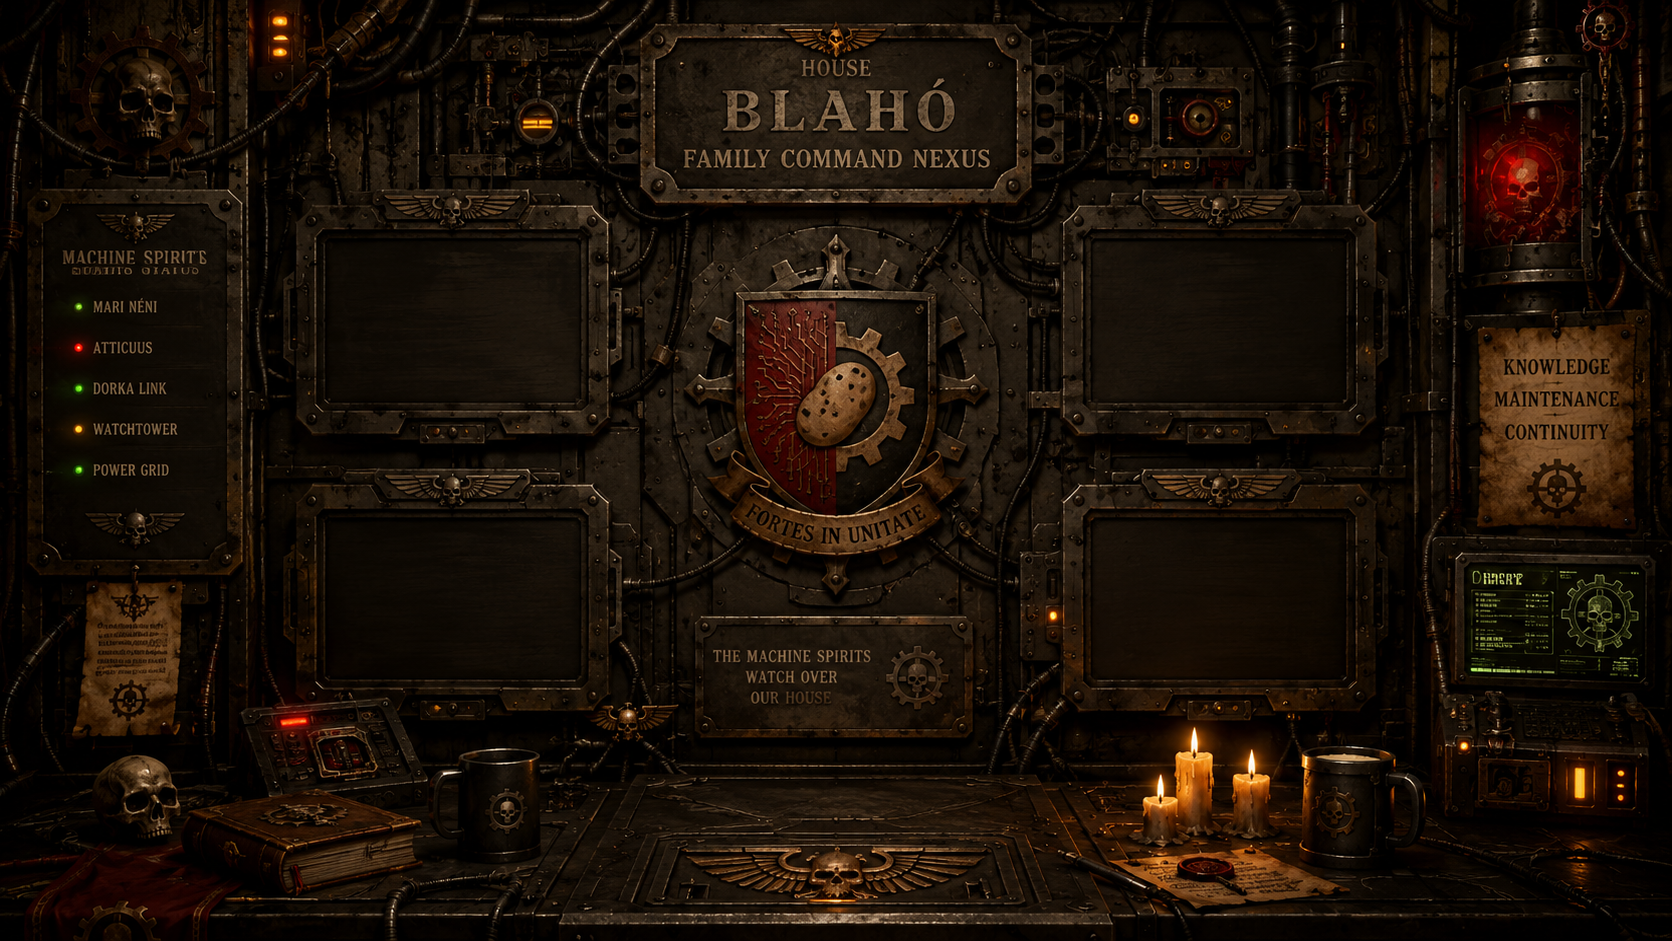
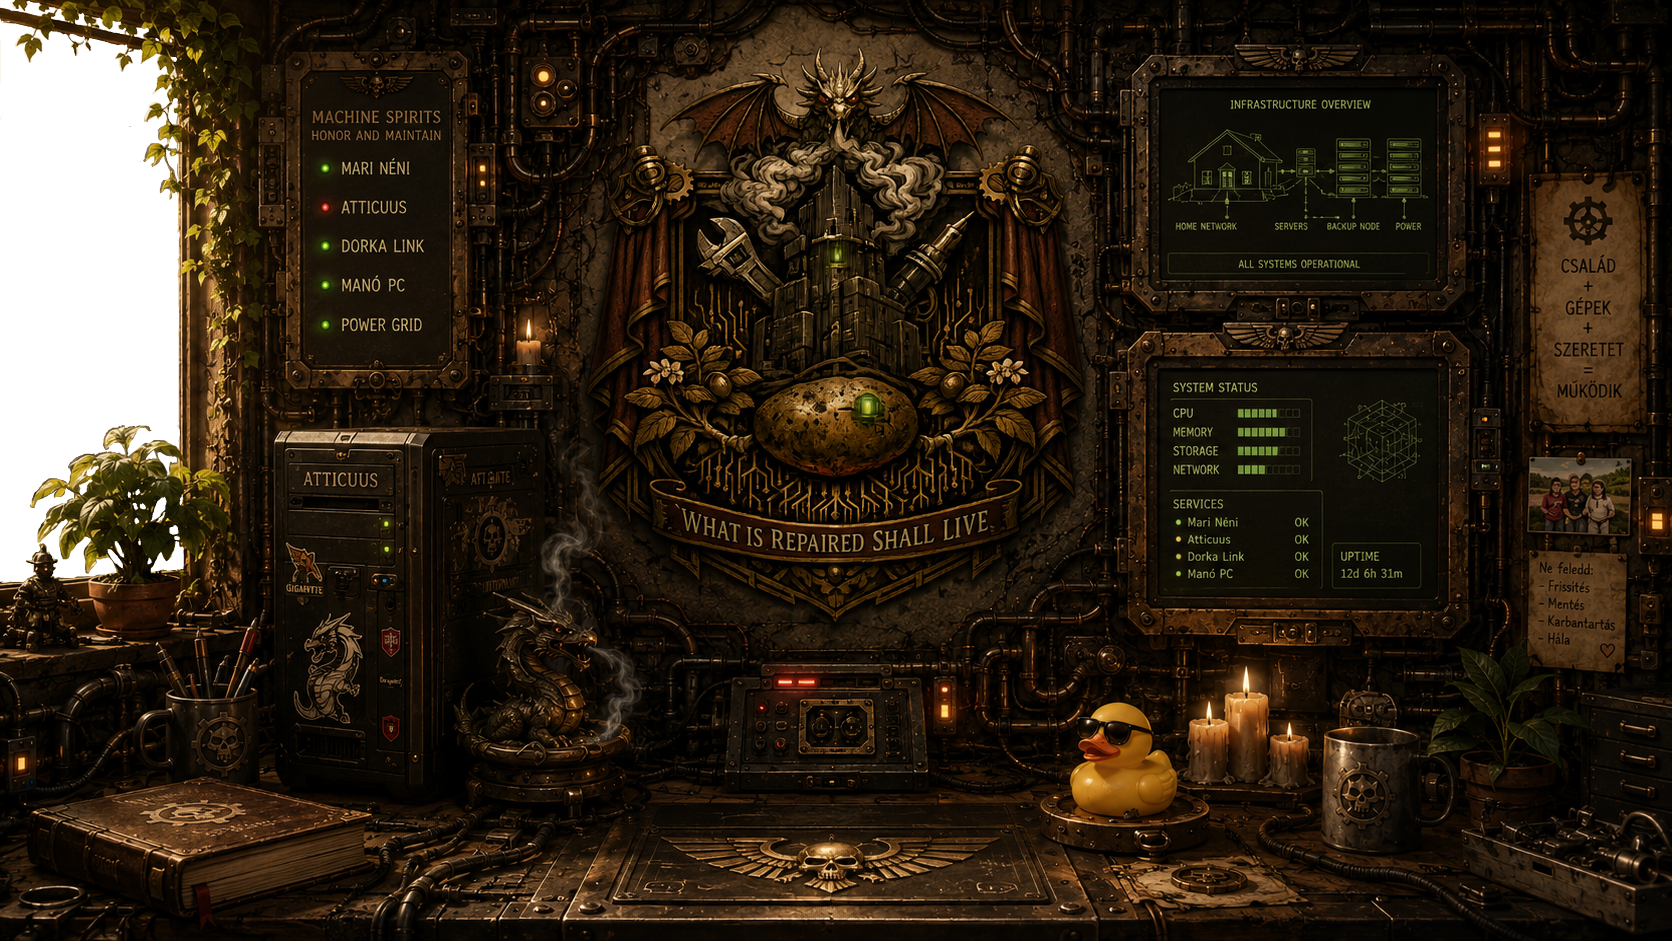
landing page window weather effect

diff --git a/src/pages/Welcome.jsx b/src/pages/Welcome.jsx
@@ -1,53 +1,177 @@
 import { useNavigate } from "react-router-dom";
-import welcome from "../resources/pic/Landing2.png";
+import welcome from "../resources/pic/Landing.png";
+import springVillage from "../resources/pic/village/SpringVillage.png";
+import summerVillage from "../resources/pic/village/SummerVillage.png";
+import fallVillage from "../resources/pic/village/FallVillage.png";
+import winterVillage from "../resources/pic/village/WinterVillage.png";
+import clear from "../resources/pic/sky/Clear.png";
+import partClear from "../resources/pic/sky/PartClear.png";
+import partCloud from "../resources/pic/sky/PartCloud.png";
+import fullCloud from "../resources/pic/sky/FullCloud.png";
+import Rain from "../components/Rain";
+import Snow from "../components/Snow";
+import { useEffect, useState } from "react";
 
 function Welcome() {
   const navigate = useNavigate();
+  const [weather, setWeather] = useState(null);
+
+  const month = new Date().getMonth();
+  let village;
+
+  function getSky(cloudCover) {
+    if (cloudCover < 20) {
+      return clear;
+    } else if (cloudCover < 45) {
+      return partClear;
+    } else if (cloudCover < 75) {
+      return partCloud;
+    }
+    return fullCloud;
+  }
+
+  function getWeatherEffect(code) {
+    if ((code >= 51 && code <= 67) || (code >= 80 && code <= 82)) {
+      return "rain";
+    } else if ((code >= 71 && code <= 77) || code === 85 || code === 86) {
+      return "snow";
+    } else if (code >= 95 && code <= 99) {
+      return "storm";
+    }
+    return null;
+  }
+
+  if (month >= 2 && month <= 4) {
+    village = springVillage;
+  } else if (month >= 5 && month <= 7) {
+    village = summerVillage;
+  } else if (month >= 8 && month <= 10) {
+    village = fallVillage;
+  } else {
+    village = winterVillage;
+  }
+
+  const sky = weather ? getSky(weather.cloud_cover) : clear;
+
+  const effect = weather ? getWeatherEffect(weather.weather_code) : null;
+
+  useEffect(() => {
+    const getWeather = async () => {
+      try {
+        const response = await fetch(
+          "https://api.open-meteo.com/v1/forecast" +
+            "?latitude=47.64" +
+            "&longitude=20.19" +
+            "&current=temperature_2m,relative_humidity_2m,weather_code,cloud_cover,wind_speed_10m,is_day" +
+            "&timezone=Europe%2FBudapest",
+        );
+
+        if (!response.ok) {
+          throw new Error(`Weather request failed: ${response.status}`);
+        }
+
+        const data = await response.json();
+
+        setWeather(data.current);
+        console.log("Weather:", data.current);
+      } catch (error) {
+        console.error("Could not get weather:", error);
+      }
+    };
+
+    getWeather();
+
+    const interval = setInterval(getWeather, 15 * 60 * 1000);
+
+    return () => clearInterval(interval);
+  }, []);
 
   return (
     <div
       className="fullscreen"
       style={{
-        backgroundImage: `url(${welcome})`,
-        backgroundSize: "cover",
-        backgroundPosition: "center",
-        backgroundRepeat: "no-repeat",
+        position: "relative",
+        overflow: "hidden",
       }}
     >
-      <h1 className="title">BLAHO</h1>
+      <div
+        style={{
+          position: "absolute",
+          inset: 0,
+          backgroundImage: `url(${sky})`,
+          backgroundSize: "auto",
+          backgroundPosition: "top left",
+          backgroundRepeat: "no-repeat",
+          transform: "scale(0.9)",
+          transformOrigin: "top left",
+          zIndex: 0,
+        }}
+      />
 
-      <div className="menu-buttons">
-        <button
-          className="btn btn-start"
-          //style={{ position: "absolute", top: "20px", left: "-156%" }}
-          onClick={() => navigate("/breakfast")}
-        >
-          Reggeli Rulett
-        </button>
+      <div
+        style={{
+          position: "absolute",
+          inset: 0,
+          backgroundImage: `url(${village})`,
+          backgroundSize: "auto",
+          backgroundPosition: "top left",
+          backgroundRepeat: "no-repeat",
+          transform: "scale(0.7)",
+          transformOrigin: "top left",
+          zIndex: 1,
+        }}
+      />
 
-        <button
-          className="btn btn-start"
-          //style={{ position: "absolute", top: "20px", left: "150%" }}
-          onClick={() => navigate("/status")}
-        >
-          STATUS
-        </button>
+      {effect === "rain" && <Rain />}
+      {effect === "snow" && <Snow />}
 
-        <button
-          className="btn btn-start"
-          //style={{ position: "absolute", top: "0%", left: "57%" }}
-          onClick={() => navigate("/dinner")}
-        >
-          Vacsora szavazás
-        </button>
+      <div
+        style={{
+          position: "absolute",
+          inset: 0,
+          backgroundImage: `url(${welcome})`,
+          backgroundSize: "cover",
+          backgroundPosition: "center",
+          backgroundRepeat: "no-repeat",
+          zIndex: 3,
+        }}
+      />
+      <div style={{ position: "relative", zIndex: 4 }}>
+        <h1 className="title">BLAHO</h1>
 
-        <button
-          className="btn btn-start"
-          //style={{ position: "absolute", top: "300%", left: "121%" }}
-          onClick={() => navigate("/dashboard")}
-        >
-          Gyerekek
-        </button>
+        <div className="menu-buttons">
+          <button
+            className="btn btn-start"
+            //style={{ position: "absolute", top: "20px", left: "-156%" }}
+            onClick={() => navigate("/breakfast")}
+          >
+            Reggeli Rulett
+          </button>
+
+          <button
+            className="btn btn-start"
+            //style={{ position: "absolute", top: "20px", left: "150%" }}
+            onClick={() => navigate("/status")}
+          >
+            STATUS
+          </button>
+
+          <button
+            className="btn btn-start"
+            //style={{ position: "absolute", top: "0%", left: "57%" }}
+            onClick={() => navigate("/dinner")}
+          >
+            Vacsora szavazás
+          </button>
+
+          <button
+            className="btn btn-start"
+            //style={{ position: "absolute", top: "300%", left: "121%" }}
+            onClick={() => navigate("/dashboard")}
+          >
+            Gyerekek
+          </button>
+        </div>
       </div>
     </div>
   );

diff --git a/src/components/Snow.jsx b/src/components/Snow.jsx
@@ -1,0 +1,44 @@
+import { useEffect, useRef } from "react";
+import "../styles/weather.css";
+
+function Snow() {
+  const snowRef = useRef(null);
+
+  useEffect(() => {
+    const container = snowRef.current;
+    const flakes = [];
+
+    const flakeCount = 180;
+
+    for (let i = 0; i < flakeCount; i++) {
+      const flake = document.createElement("div");
+
+      flake.className = "snow-flake";
+
+      const size = 3 + Math.random() * 6;
+      const duration = 5 + Math.random() * 6;
+
+      flake.style.left = `${Math.random() * 100}%`;
+      flake.style.width = `${size}px`;
+      flake.style.height = `${size}px`;
+      flake.style.opacity = `${0.4 + Math.random() * 0.6}`;
+      flake.style.animationDuration = `${duration}s`;
+      flake.style.animationDelay = `${Math.random() * -duration}s`;
+      flake.style.setProperty(
+        "--snow-drift",
+        `${-4 + Math.random() * 8}vw`
+      );
+
+      container.appendChild(flake);
+      flakes.push(flake);
+    }
+
+    return () => {
+      flakes.forEach((flake) => flake.remove());
+    };
+  }, []);
+
+  return <div ref={snowRef} className="snow-container" />;
+}
+
+export default Snow;

diff --git a/src/styles/weather.css b/src/styles/weather.css
@@ -1,0 +1,62 @@
+/*RAIN*/
+.rain-container {
+  position: absolute;
+  inset: 0;
+  overflow: hidden;
+  z-index: 2;
+  pointer-events: none;
+}
+
+.rain-drop {
+  position: absolute;
+  top: -30px;
+  width: 2px;
+  background: rgba(180, 200, 230, 0.65);
+  transform: rotate(12deg);
+  animation: rain-fall linear infinite;
+}
+
+@keyframes rain-fall {
+  from {
+    transform: translateY(-30px) translateX(0) rotate(12deg);
+  }
+
+  to {
+    transform: translateY(110vh) translateX(8vw) rotate(12deg);
+  }
+}
+
+/*SNOW*/
+.snow-container {
+  position: absolute;
+  inset: 0;
+  overflow: hidden;
+  z-index: 2;
+  pointer-events: none;
+}
+
+.snow-flake {
+  position: absolute;
+  top: -20px;
+
+  border-radius: 50%;
+  background: white;
+
+  animation-name: snow-fall;
+  animation-timing-function: linear;
+  animation-iteration-count: infinite;
+}
+
+@keyframes snow-fall {
+  0% {
+    transform: translateY(-20px) translateX(0);
+  }
+
+  50% {
+    transform: translateY(50vh) translateX(var(--snow-drift));
+  }
+
+  100% {
+    transform: translateY(110vh) translateX(calc(var(--snow-drift) * -1));
+  }
+}

diff --git a/src/components/Rain.jsx b/src/components/Rain.jsx
@@ -1,0 +1,36 @@
+import { useEffect, useRef } from "react";
+import "../styles/weather.css";
+
+function Rain() {
+  const rainRef = useRef(null);
+
+  useEffect(() => {
+    const container = rainRef.current;
+    const drops = [];
+
+    const dropCount = 350;
+
+    for (let i = 0; i < dropCount; i++) {
+      const drop = document.createElement("div");
+
+      drop.className = "rain-drop";
+
+      drop.style.left = `${Math.random() * 100}%`;
+      drop.style.animationDuration = `${0.35 + Math.random() * 0.4}s`;
+      drop.style.animationDelay = `${Math.random() * -2}s`;
+      drop.style.height = `${12 + Math.random() * 18}px`;
+      drop.style.opacity = `${0.35 + Math.random() * 0.45}`;
+
+      container.appendChild(drop);
+      drops.push(drop);
+    }
+
+    return () => {
+      drops.forEach((drop) => drop.remove());
+    };
+  }, []);
+
+  return <div ref={rainRef} className="rain-container" />;
+}
+
+export default Rain;
